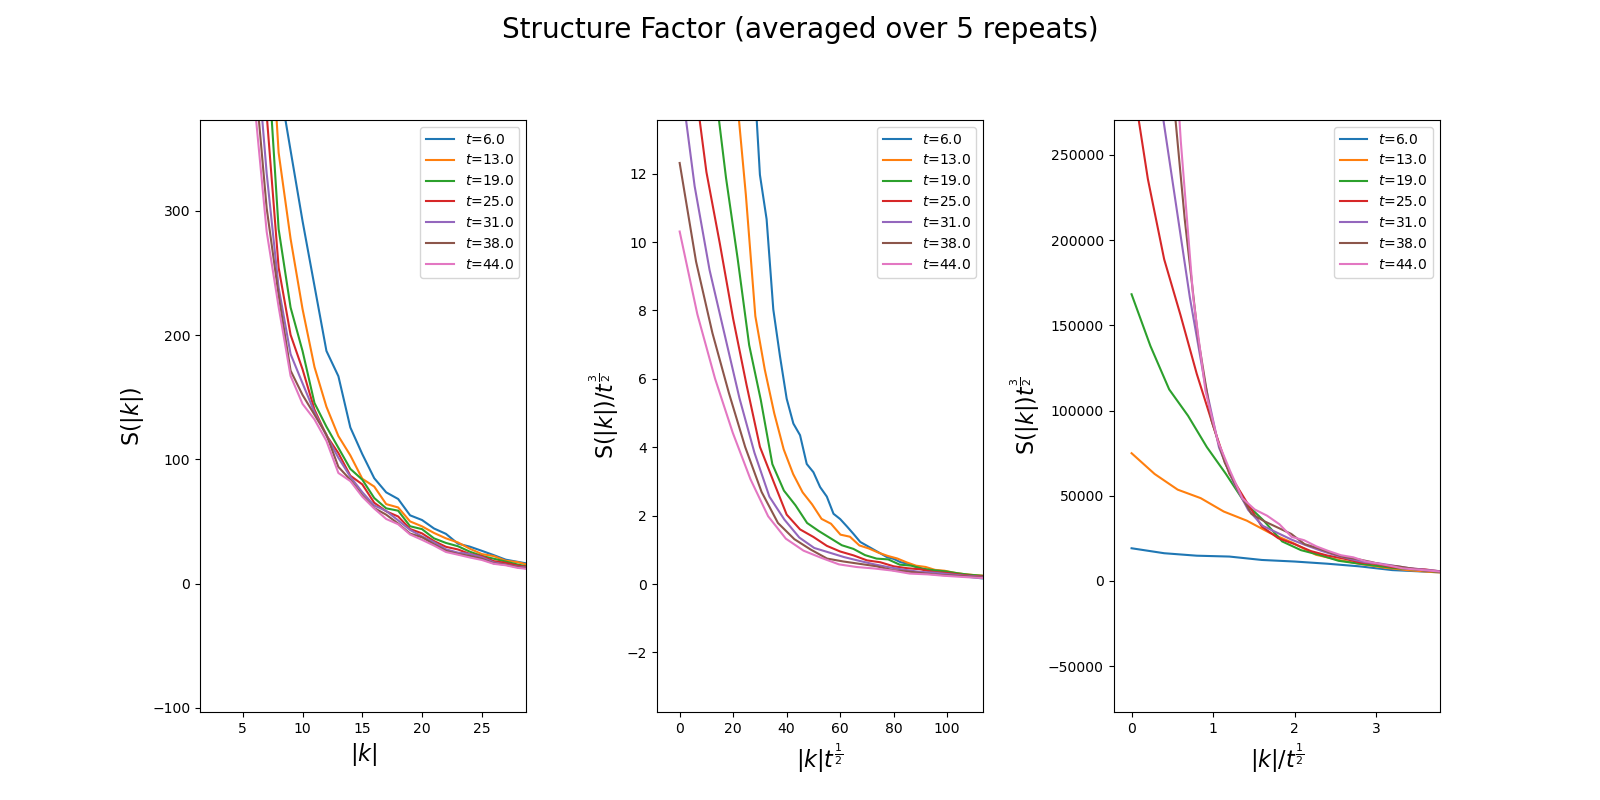
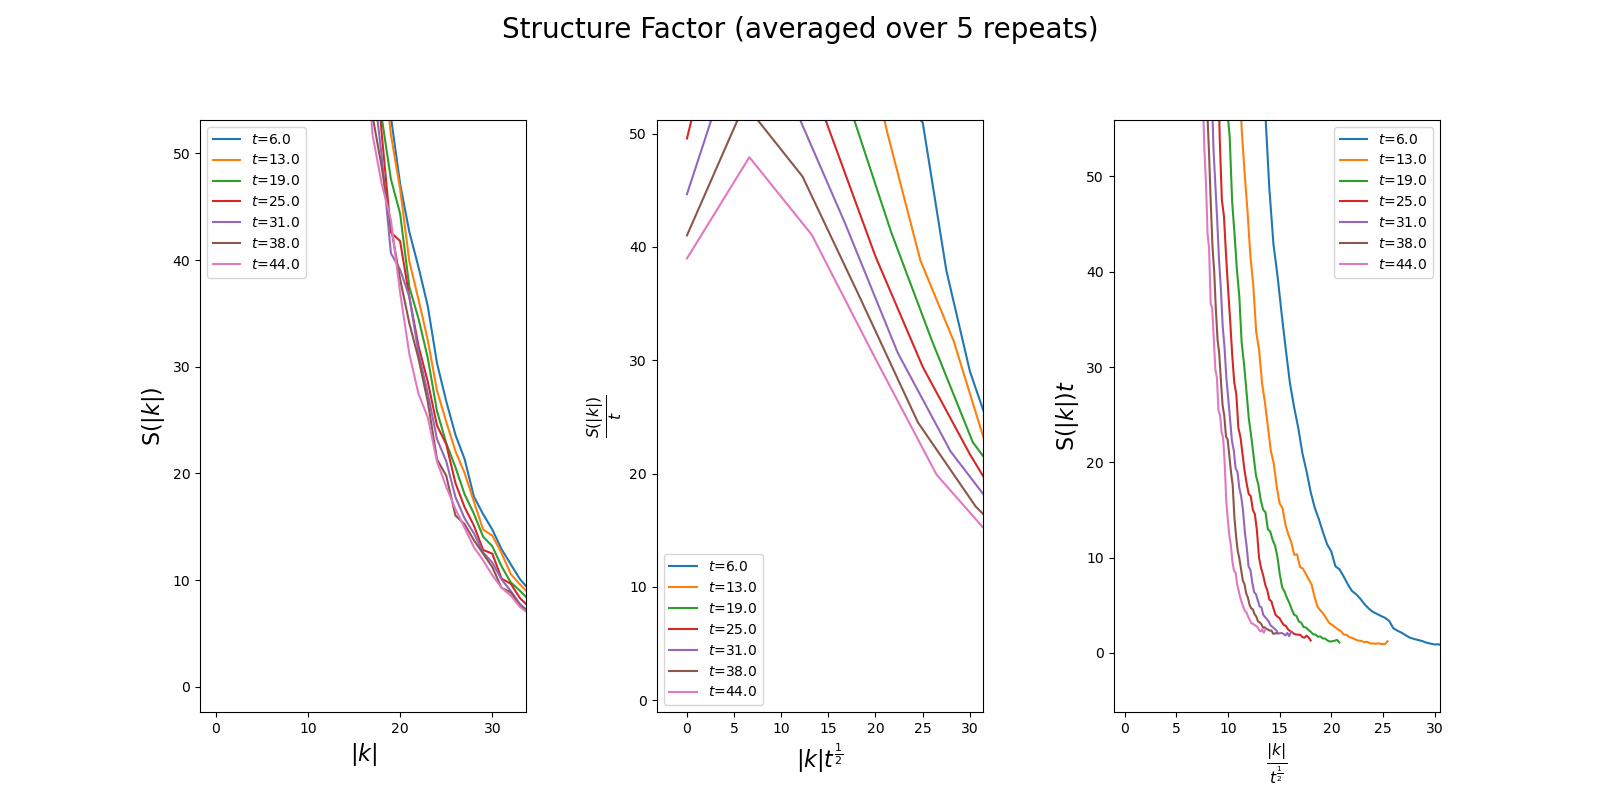
Plot updates

diff --git a/Model A/Ginzburg-Landau Model.py b/Model A/Ginzburg-Landau Model.py
@@ -20,7 +20,6 @@ def annulus_average(ft, N, k1, dk):
     average = np.mean(abs(ft[rows, columns]))
     return average
 
-
 if __name__ == "__main__":
     # Set up lattice
     grid_size = 128
@@ -80,14 +79,14 @@ if __name__ == "__main__":
     ax_sf[0].set_xlabel("$|k|$", fontsize=16)
     ax_sf[0].set_ylabel("S($|k|$)", fontsize=16)
     ax_sf[1].set_xlabel("$|k|t^\\frac{1}{2}$", fontsize=16)
-    ax_sf[1].set_ylabel("S($|k|$)$/t^\\frac{3}{2}$", fontsize=16)
-    ax_sf[2].set_xlabel("$|k|/t^\\frac{1}{2}$", fontsize=16)
-    ax_sf[2].set_ylabel("S($|k|$)$t^\\frac{3}{2}$", fontsize=16)
+    ax_sf[1].set_ylabel("$\\frac{S(|k|)}{t}$", fontsize=16)
+    ax_sf[2].set_xlabel("$\\frac{|k|}{t^\\frac{1}{2}}$", fontsize=16)
+    ax_sf[2].set_ylabel("S($|k|$)$t$", fontsize=16)
     
     for time, structure_factor in zip(sf_times[1:], averaged_sf[1:]):
         ax_sf[0].plot(kvals, structure_factor, label="$t$="+str(np.round(time,0)))
-        ax_sf[1].plot(kvals*(time**0.5), structure_factor/(time**1.5), label="$t$="+str(np.round(time,0)))
-        ax_sf[2].plot(kvals/(time**0.5), structure_factor*(time**1.5), label="$t$="+str(np.round(time,0)))
+        ax_sf[1].plot(kvals*(time**0.5), structure_factor/(time), label="$t$="+str(np.round(time,0)))
+        ax_sf[2].plot(kvals/(time**0.5), structure_factor*(time), label="$t$="+str(np.round(time,0)))
     ax_sf[0].legend()
     ax_sf[1].legend()
     ax_sf[2].legend()
